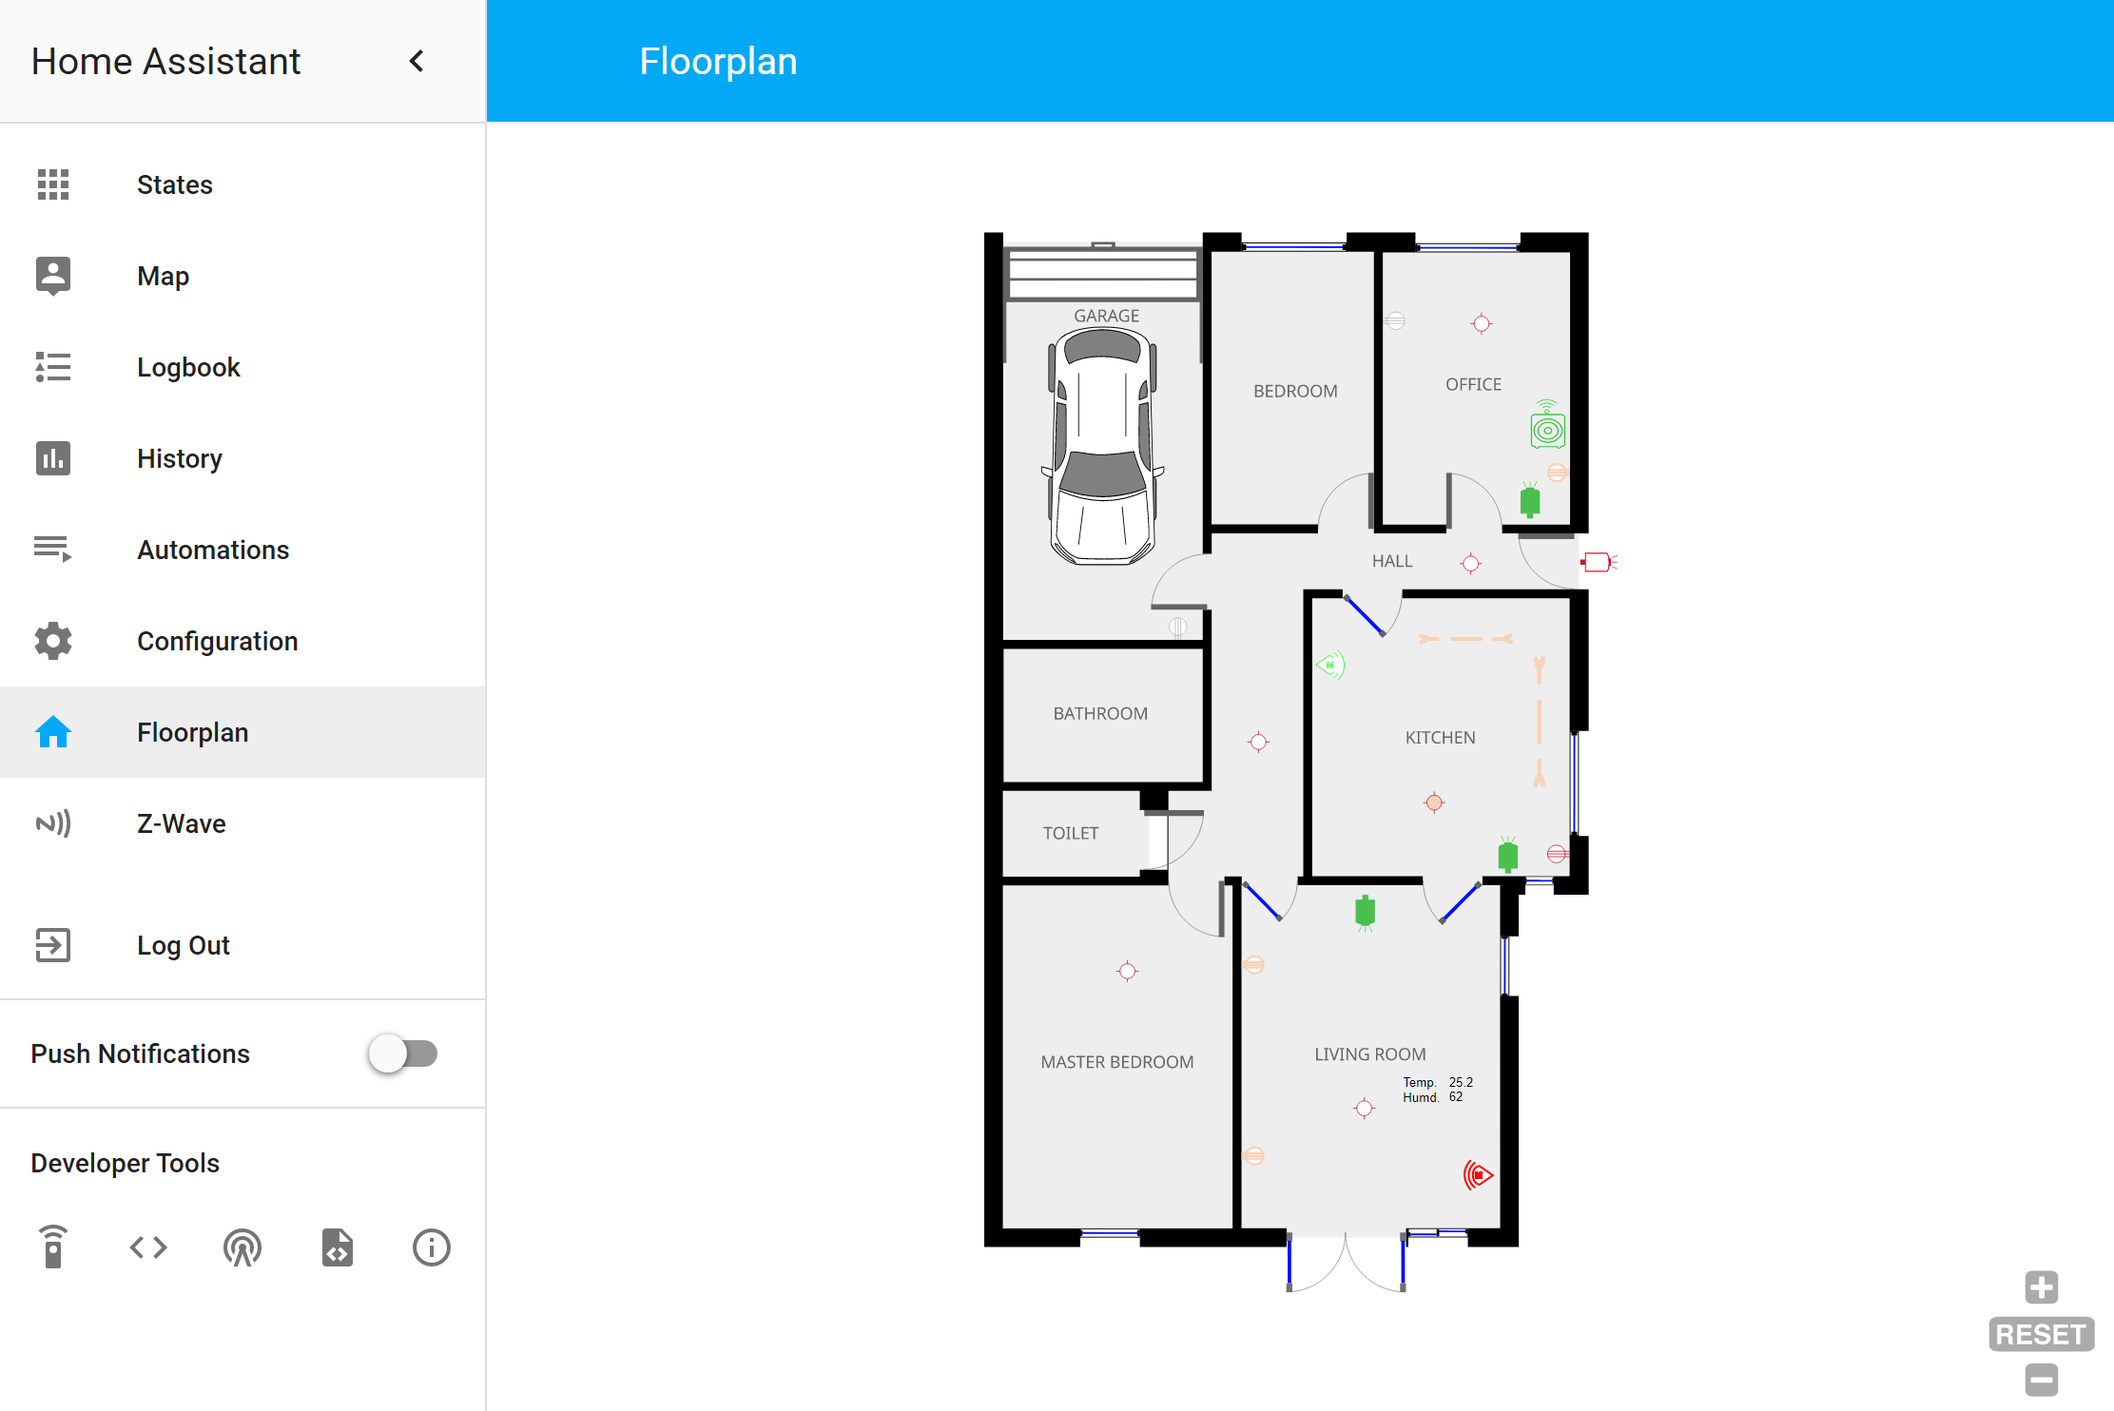
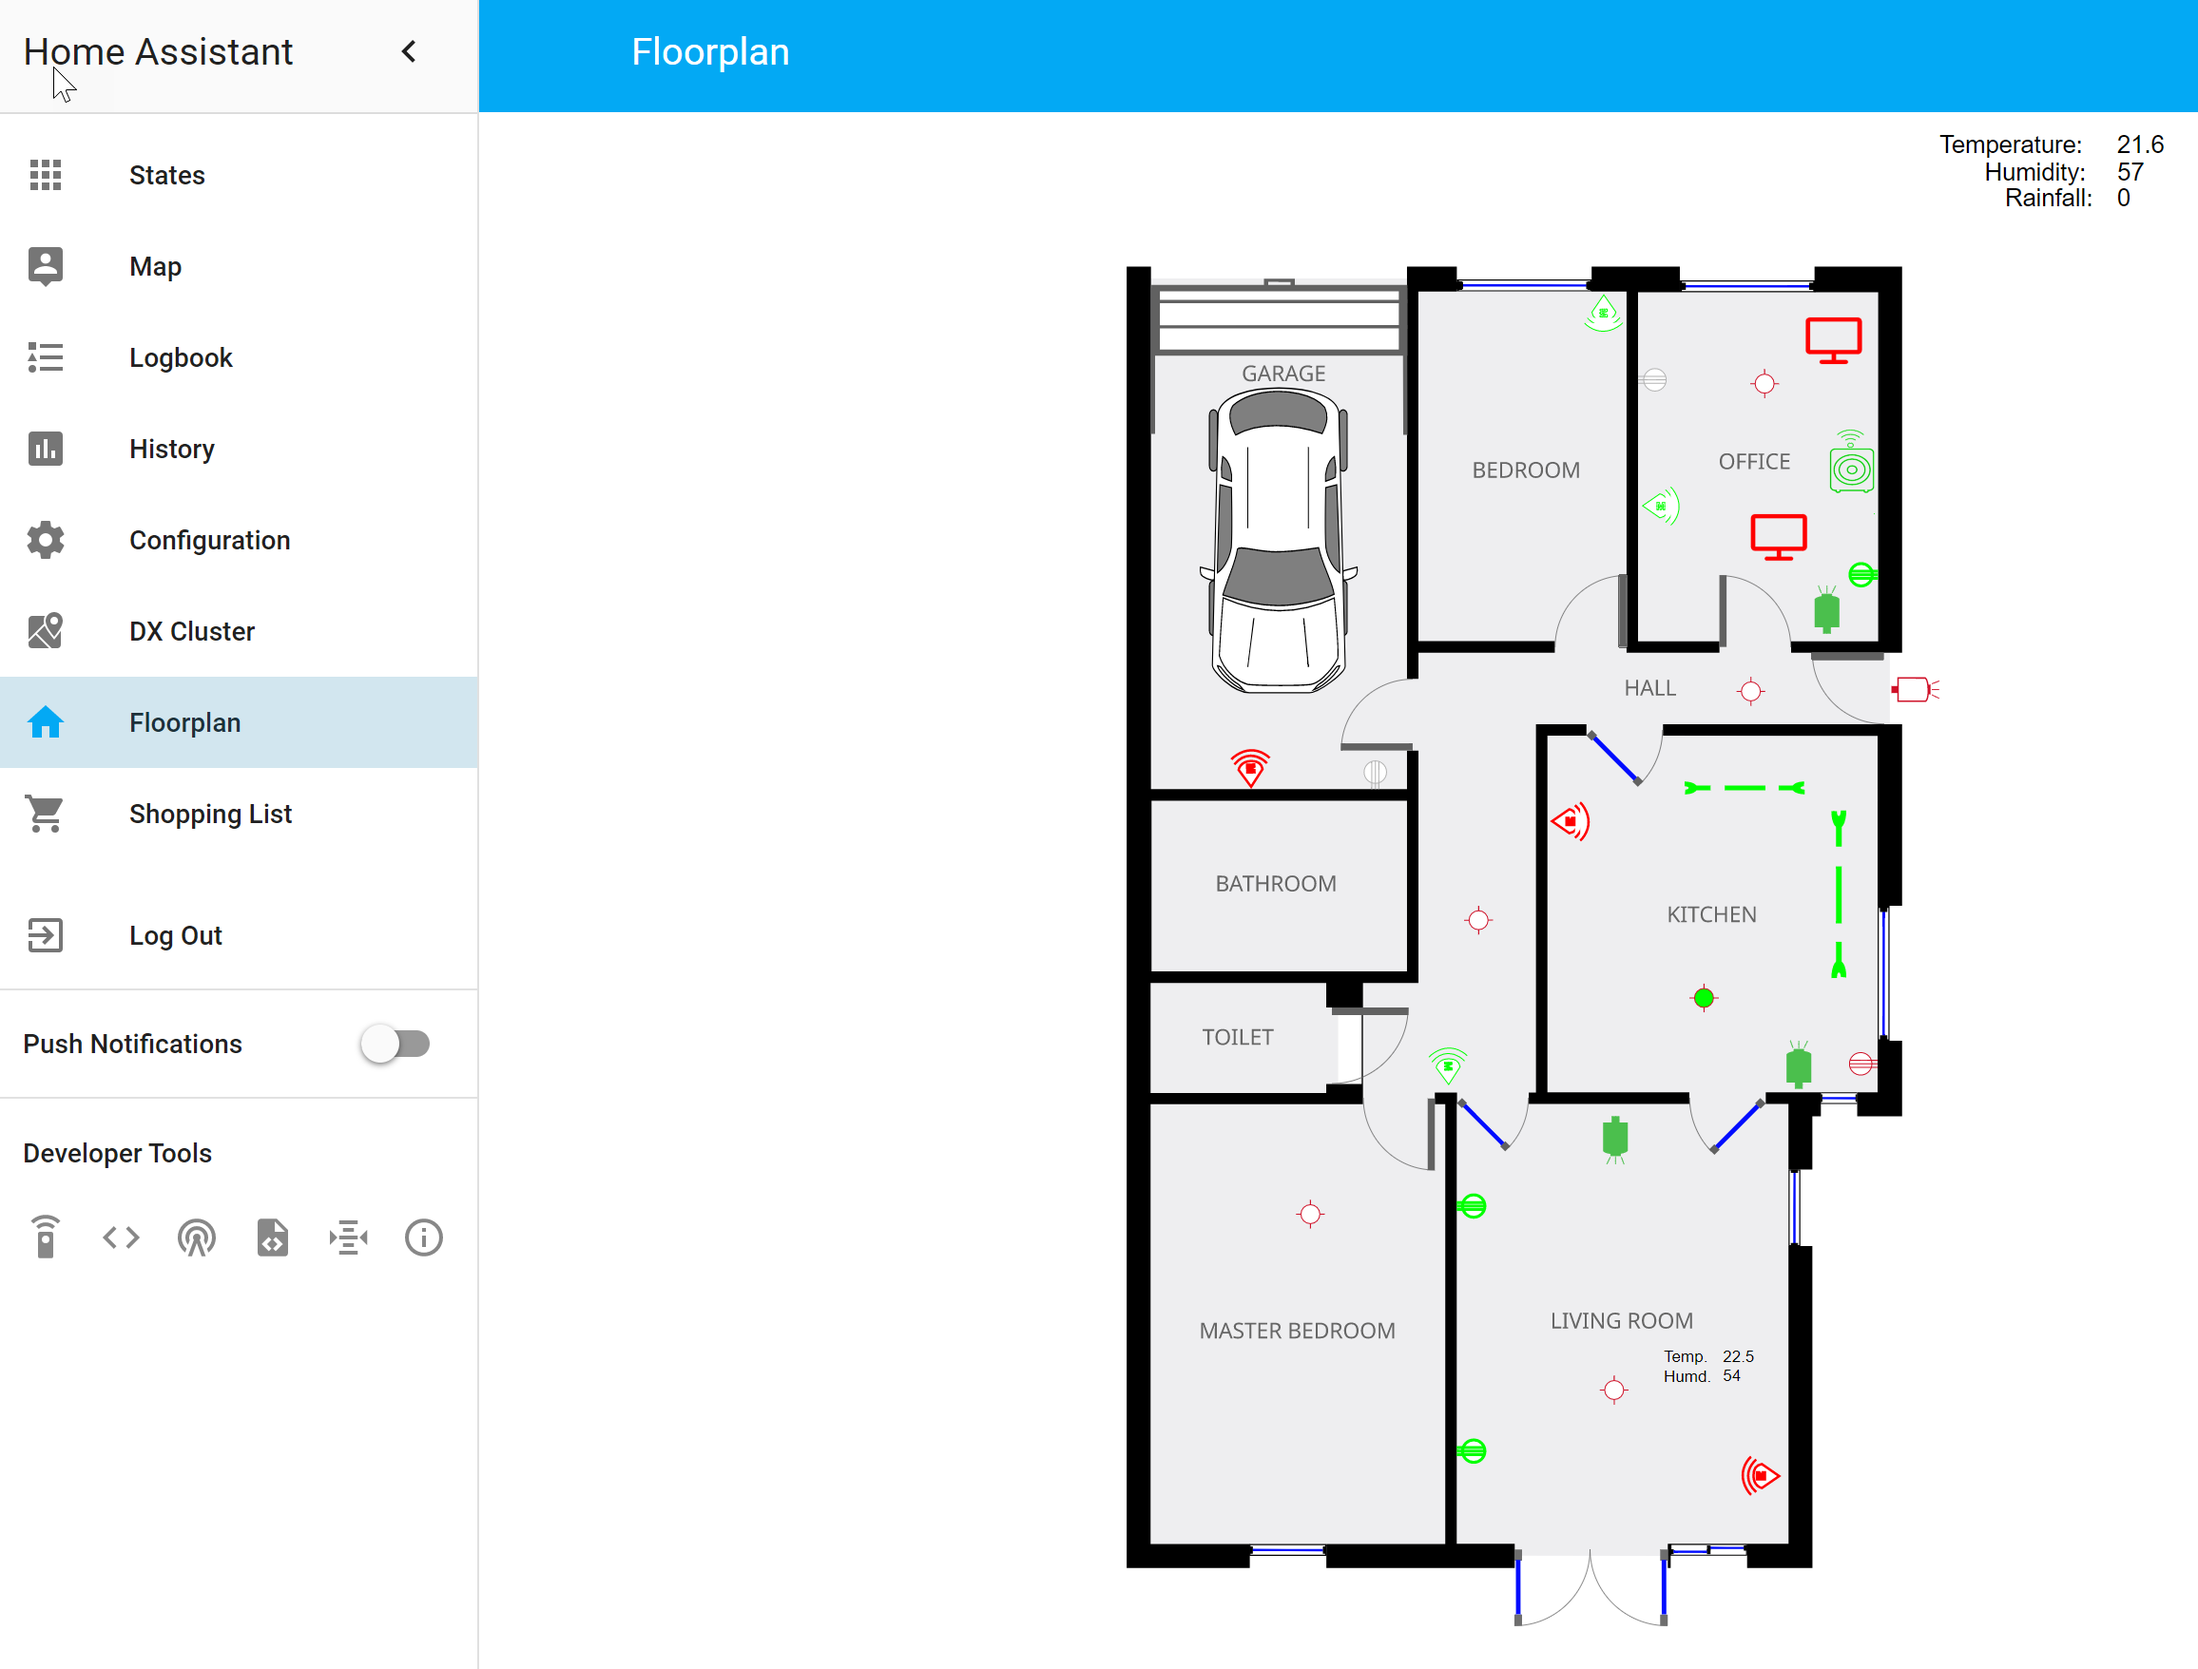
Updates  - Floorplan  - Screenshots  - Readme

diff --git a/www/custom_ui/floorplan/floorplan.css b/www/custom_ui/floorplan/floorplan.css
@@ -70,7 +70,7 @@ svg, svg * {
 }
 
 .light-on {
-  fill: #F8D2B9 !important;
+  fill: #00ff00 !important;
 }
 
 
@@ -81,7 +81,7 @@ svg, svg * {
 }
 
 .strip-light-on {
-  stroke: #F8D2B9 !important;
+  stroke: #00ff00 !important;
   stroke-width: 30px !important;
 }
 
@@ -99,7 +99,7 @@ svg, svg * {
 }
 
 .switch-on {
-  stroke: #F8D2B9 !important;
+  stroke: #00ff00 !important;
   stroke-width: 30px !important;
 }
 
@@ -118,5 +118,18 @@ svg, svg * {
 .motion-motion {
   stroke: #ff0000 !important;
   fill: #fff !important;
+  stroke-width: 3px !important;
+}
+
+
+/* PC */
+.pc-off {
+  stroke: #00ff00 !important;
+  fill: #00ff00 !important;
+}
+
+.pc-on {
+  stroke: #ff0000 !important;
+  fill: #ff0000 !important;
   stroke-width: 3px !important;
 }

diff --git a/README.md b/README.md
@@ -9,6 +9,9 @@ My configuration files for Home Assistant
 
 ![lounge](screenshots/ha-lounge.png "Lounge Screenshot")
 
+
+![office](screenshots/ha-office.png "Office Screenshot")
+
 ## Hardware used ##
 
 + Raspberry Pi
@@ -42,6 +45,7 @@ My configuration files for Home Assistant
 + [Broadlink RM Mini 3](https://www.amazon.co.uk/gp/product/B01HPWMWCY/)
 + [Broadlink RM Pro](https://www.amazon.co.uk/d/Home-Audio-Video-Accessories/Broadlink-Automation-Learning-Universal-Control-Compatible-Smartphones/B01H6Y55QQ/)
 + [IPS Touch Screen](https://www.amazon.co.uk/gp/product/B073XDVX7R/)
++ [Power Line Adapters](https://www.amazon.co.uk/gp/product/B06XKKRDVR/)
 
 ## Software/Plugins Used ##
 
